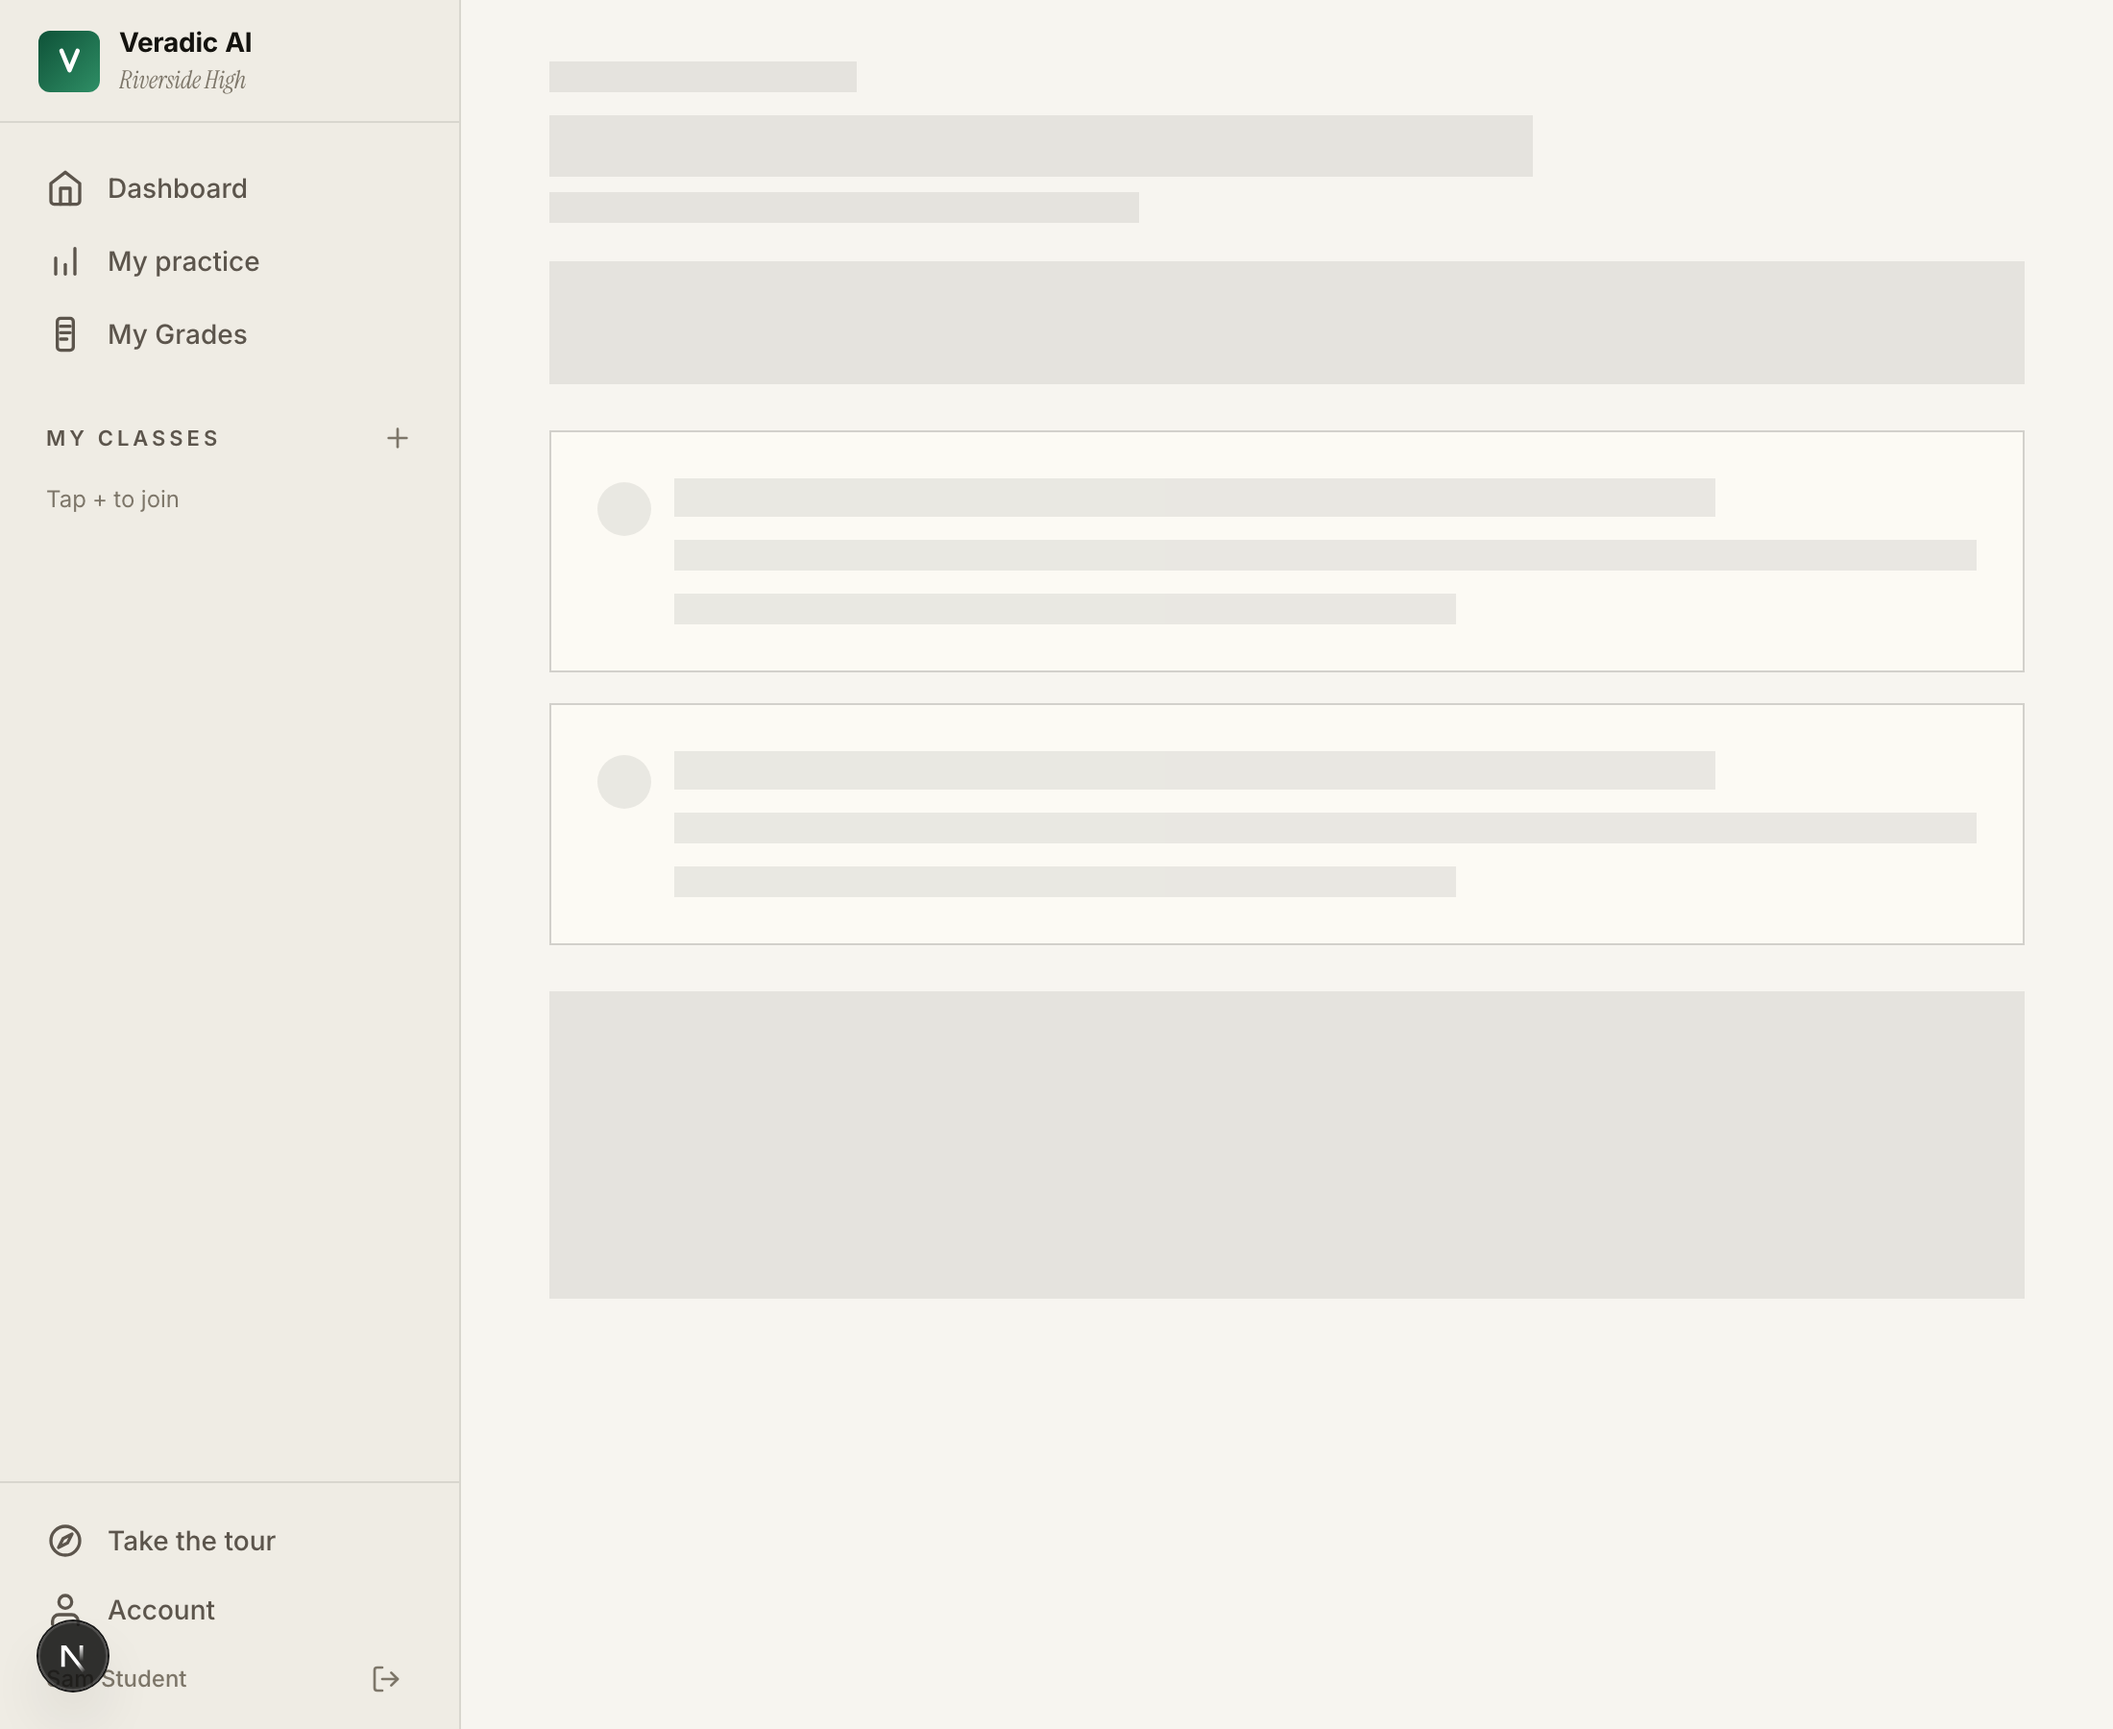
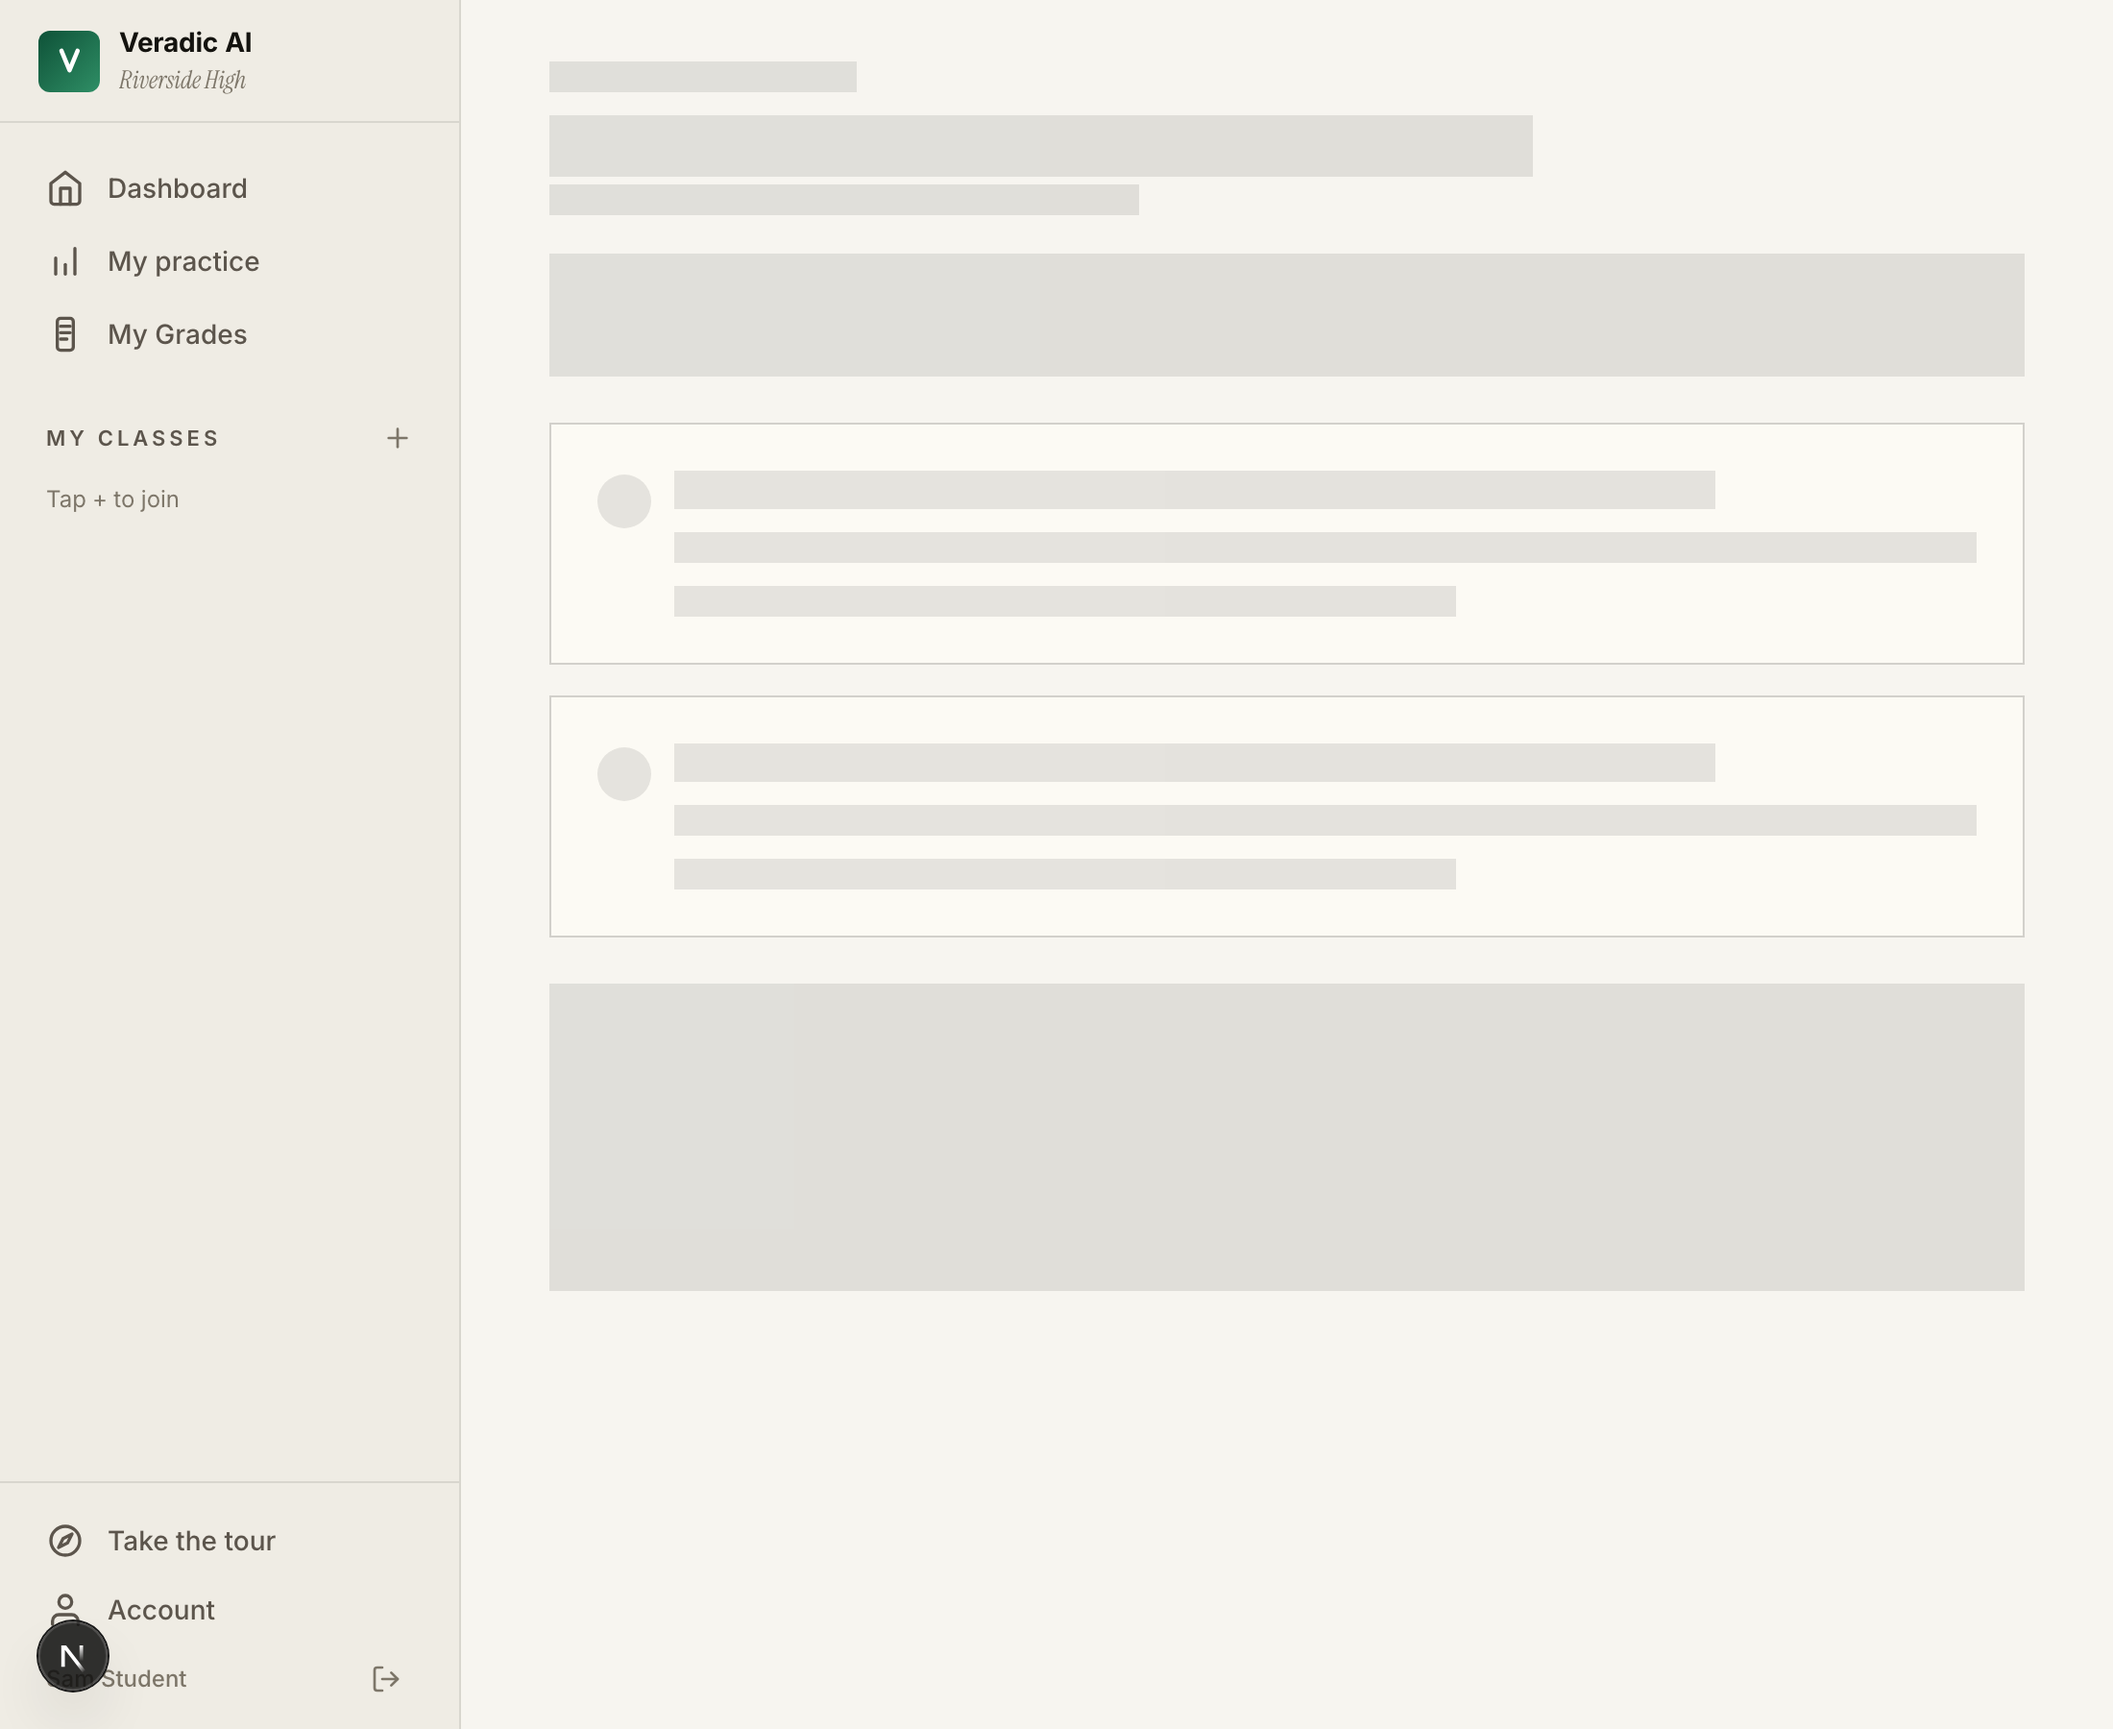
fix(web): announce homework-detail skeleton to assistive tech
Cold review flagged that the skeleton's blanket aria-hidden removed the
loading cue for screen readers (the old "Loading…" line was announced).
Swap to the codebase's convention — role="status" aria-busy="true" with
an sr-only "Loading homework…" span (matches the teacher review/roster
skeletons) — and nudge the subtitle placeholder to mt-1 to match the
real subtitle's spacing. Re-captured the screenshot.

Changed region(s): [[0.2782, 0.3733, 0.9582, 0.4044]]

diff --git a/web/src/app/(app)/school/student/courses/[courseId]/homework/[assignmentId]/page.tsx b/web/src/app/(app)/school/student/courses/[courseId]/homework/[assignmentId]/page.tsx
@@ -477,12 +477,17 @@ export default function HomeworkPage() {
  */
 function HomeworkDetailSkeleton() {
   return (
-    <div className="mx-auto max-w-3xl" aria-hidden>
+    <div className="mx-auto max-w-3xl" role="status" aria-busy="true">
+      {/* Announce the load to assistive tech — matches the sr-only +
+          aria-busy pattern the teacher review/roster skeletons use so
+          screen-reader users still get a loading cue while the shimmer
+          shapes below are purely visual. */}
+      <span className="sr-only">Loading homework…</span>
       {/* Back link */}
       <Skeleton className="h-4 w-40" />
       {/* Title + problem-count / due subtitle */}
       <Skeleton className="mt-3 h-8 w-2/3" />
-      <Skeleton className="mt-2 h-4 w-2/5" />
+      <Skeleton className="mt-1 h-4 w-2/5" />
 
       {/* Timeline strip */}
       <Skeleton className="mt-5 h-16 w-full rounded-[--radius-lg]" />
